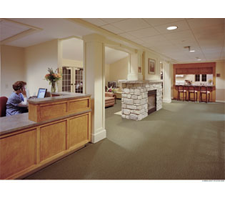
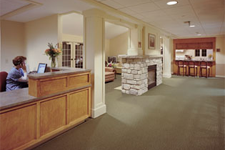
Edited image thumbs for uniform height

diff --git a/index.html b/index.html
@@ -1207,30 +1207,30 @@ It is about interactions on the most basic and personal level between the patien
             <div class="history_images" style="display:table-cell; width: 55%;">
                 <div>
                     <a href="#kh_main_1" data-rel="popup" data-position-to="window" data-transition="fade">
-                        <img src="./images/TKH-Thumb-Main-1.png" />
+                        <img src="images/TKH-Thumb-Main-1.png" />
                     </a>   
                 </div>
                 <div>
                     <div>
                         <a href="#kh_A_1" data-rel="popup" data-position-to="window" data-transition="fade">
-                            <img src="./images/TKH-Thumb-A-1.png" />
+                            <img src="images/TKH-Thumb-A-1.png" />
                         </a>   
                     </div>
                     <div>
                         <a href="#kh_B_1" data-rel="popup" data-position-to="window" data-transition="fade">
-                            <img src="./images/TKH-Thumb-B-1.png" />
+                            <img src="images/TKH-Thumb-B-1.png" />
                         </a>   
                     </div>
                 </div>
                 <div>
                     <div>
                         <a href="#kh_C_1" data-rel="popup" data-position-to="window" data-transition="fade">
-                            <img src="./images/TKH-Thumb-C-1.png" />
+                            <img src="images/TKH-Thumb-C-1.png" />
                         </a>
                     </div>
                     <div>                            
                         <a href="#kh_D_1" data-rel="popup" data-position-to="window" data-transition="fade">
-                            <img src="./images/TKH-Thumb-D-1.png" />
+                            <img src="images/TKH-Thumb-D-1.png" />
                         </a>
                     </div>
                 </div>                    
